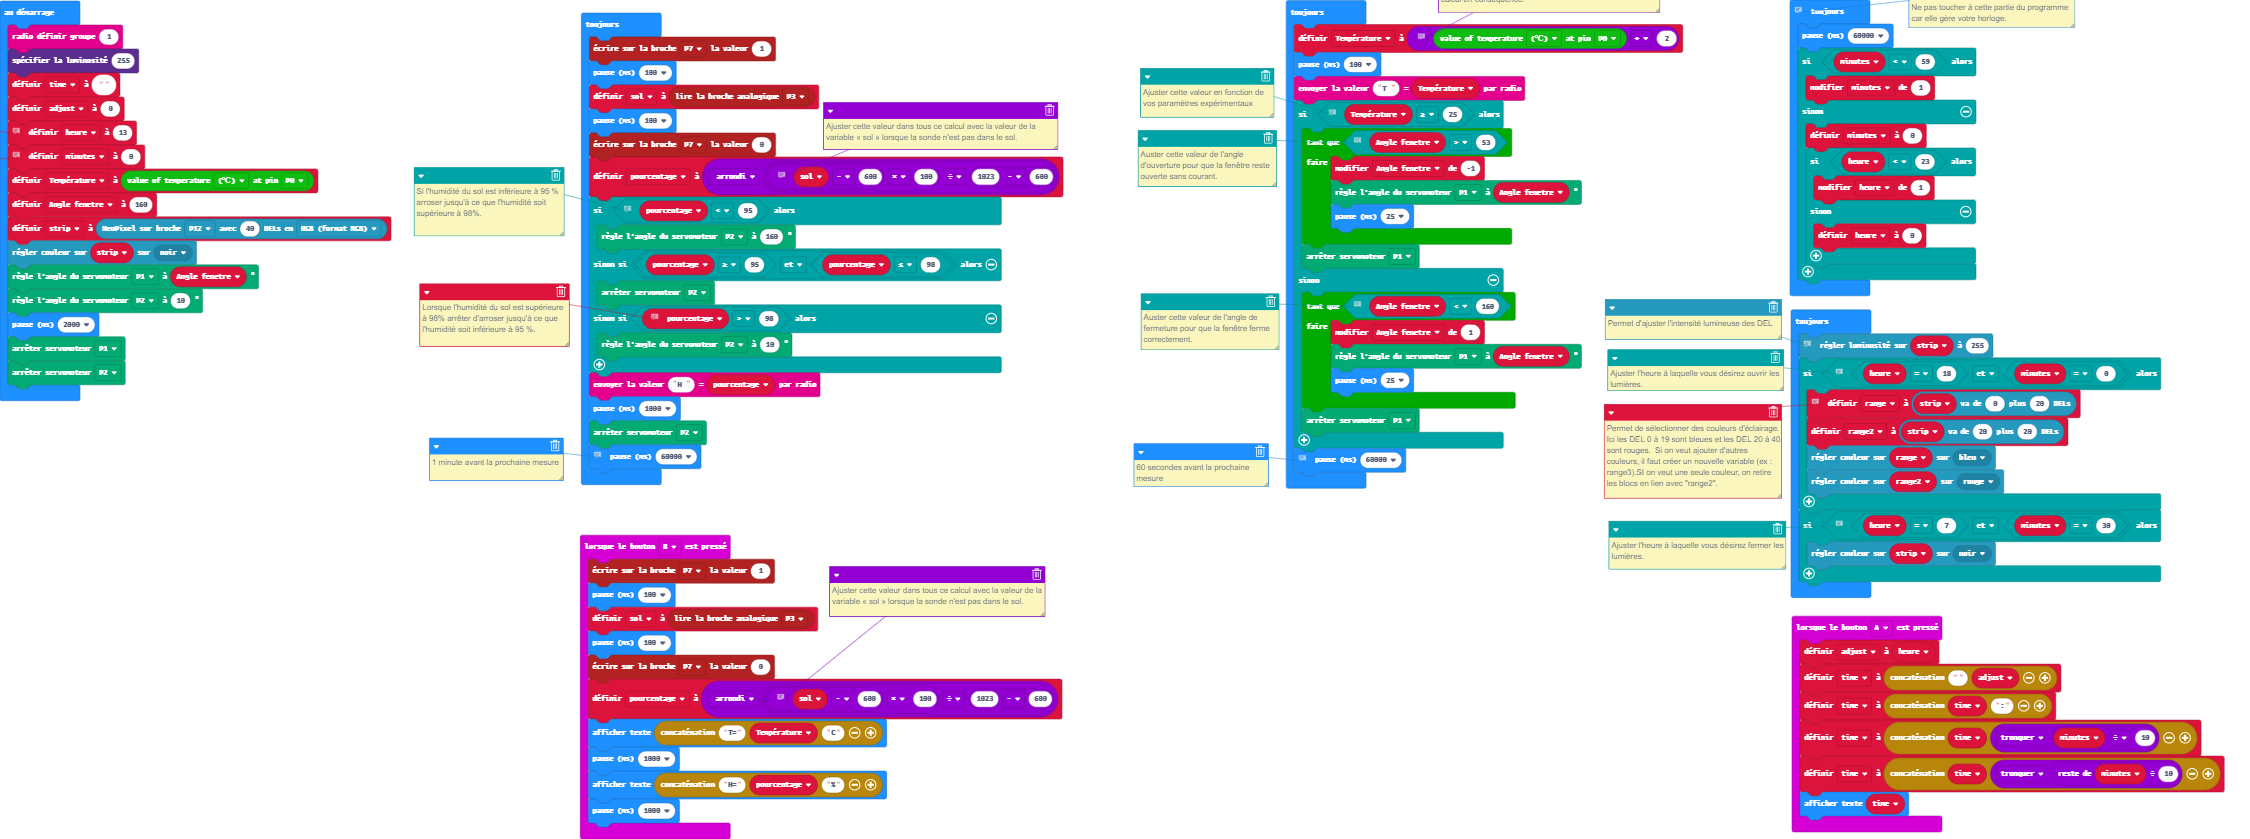
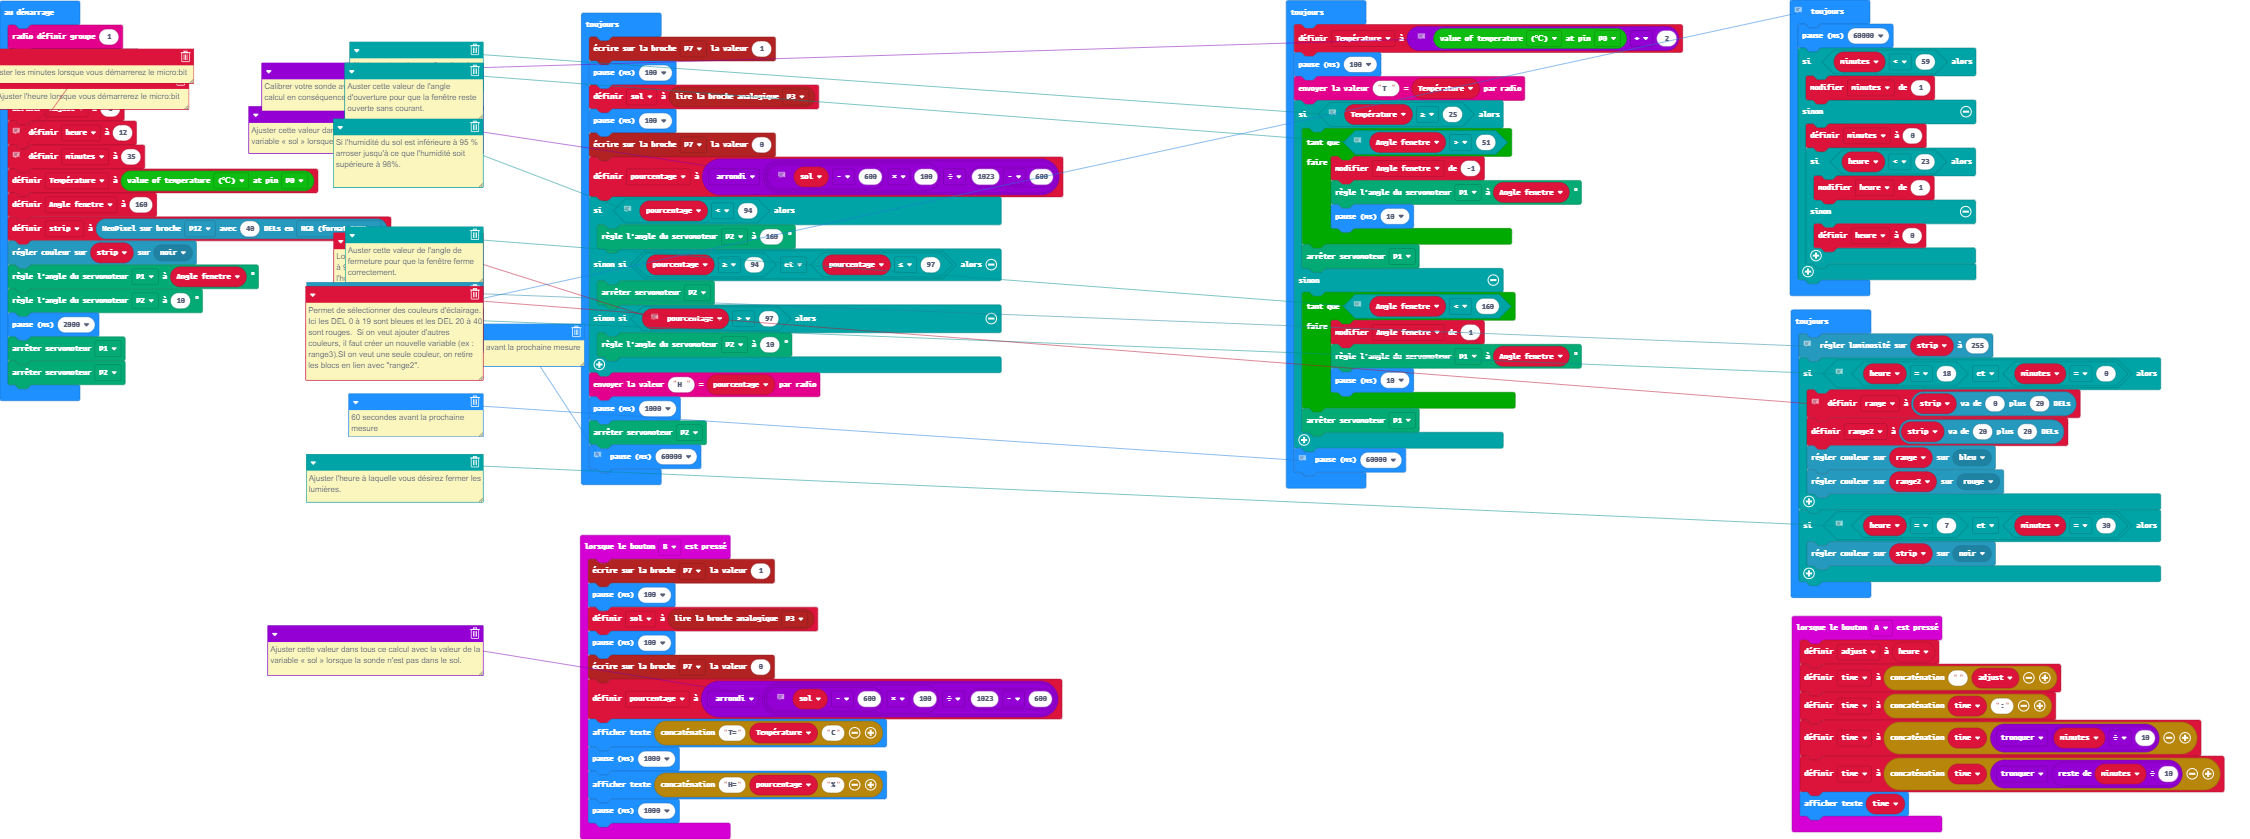
Mise à jour main.blocks, main.ts

diff --git a/main.ts b/main.ts
@@ -33,9 +33,9 @@ led.setBrightness(255)
 time = ""
 adjust = 0
 // Ajuster l'heure lorsque vous démarrerez le micro:bit
-heure = 13
+heure = 12
 // Ajuster les minutes lorsque vous démarrerez le micro:bit
-minutes = 0
+minutes = 35
 Température = smarthome.ReadTemperature(TMP36Type.TMP36_temperature_C, AnalogPin.P0)
 let Angle_fenetre = 160
 let strip = neopixel.create(DigitalPin.P12, 40, NeoPixelMode.RGB)
@@ -55,11 +55,11 @@ basic.forever(function () {
     pourcentage = Math.round((sol - 600) * 100 / (1023 - 600))
     // Si l'humidité du sol est inférieure à 95 % arroser jusqu'à ce que l'humidité soit supérieure à 98%.
     // Lorsque l'humidité du sol est supérieure à 98% arrêter d'arroser jusqu'à ce que l'humidité soit inférieure à 95 %.
-    if (pourcentage < 95) {
+    if (pourcentage < 94) {
         servos.P2.setAngle(160)
-    } else if (pourcentage >= 95 && pourcentage <= 98) {
+    } else if (pourcentage >= 94 && pourcentage <= 97) {
         servos.P2.stop()
-    } else if (pourcentage > 98) {
+    } else if (pourcentage > 97) {
         servos.P2.setAngle(10)
     }
     radio.sendValue("H ", pourcentage)
@@ -76,10 +76,10 @@ basic.forever(function () {
     // Ajuster cette valeur en fonction de vos paramètres expérimentaux
     if (Température >= 25) {
         // Auster cette valeur de l'angle d'ouverture pour que la fenêtre reste ouverte sans courant.
-        while (Angle_fenetre > 53) {
+        while (Angle_fenetre > 51) {
             Angle_fenetre += -1
             servos.P1.setAngle(Angle_fenetre)
-            basic.pause(25)
+            basic.pause(10)
         }
         servos.P1.stop()
     } else {
@@ -87,7 +87,7 @@ basic.forever(function () {
         while (Angle_fenetre < 160) {
             Angle_fenetre += 1
             servos.P1.setAngle(Angle_fenetre)
-            basic.pause(25)
+            basic.pause(10)
         }
         servos.P1.stop()
     }
